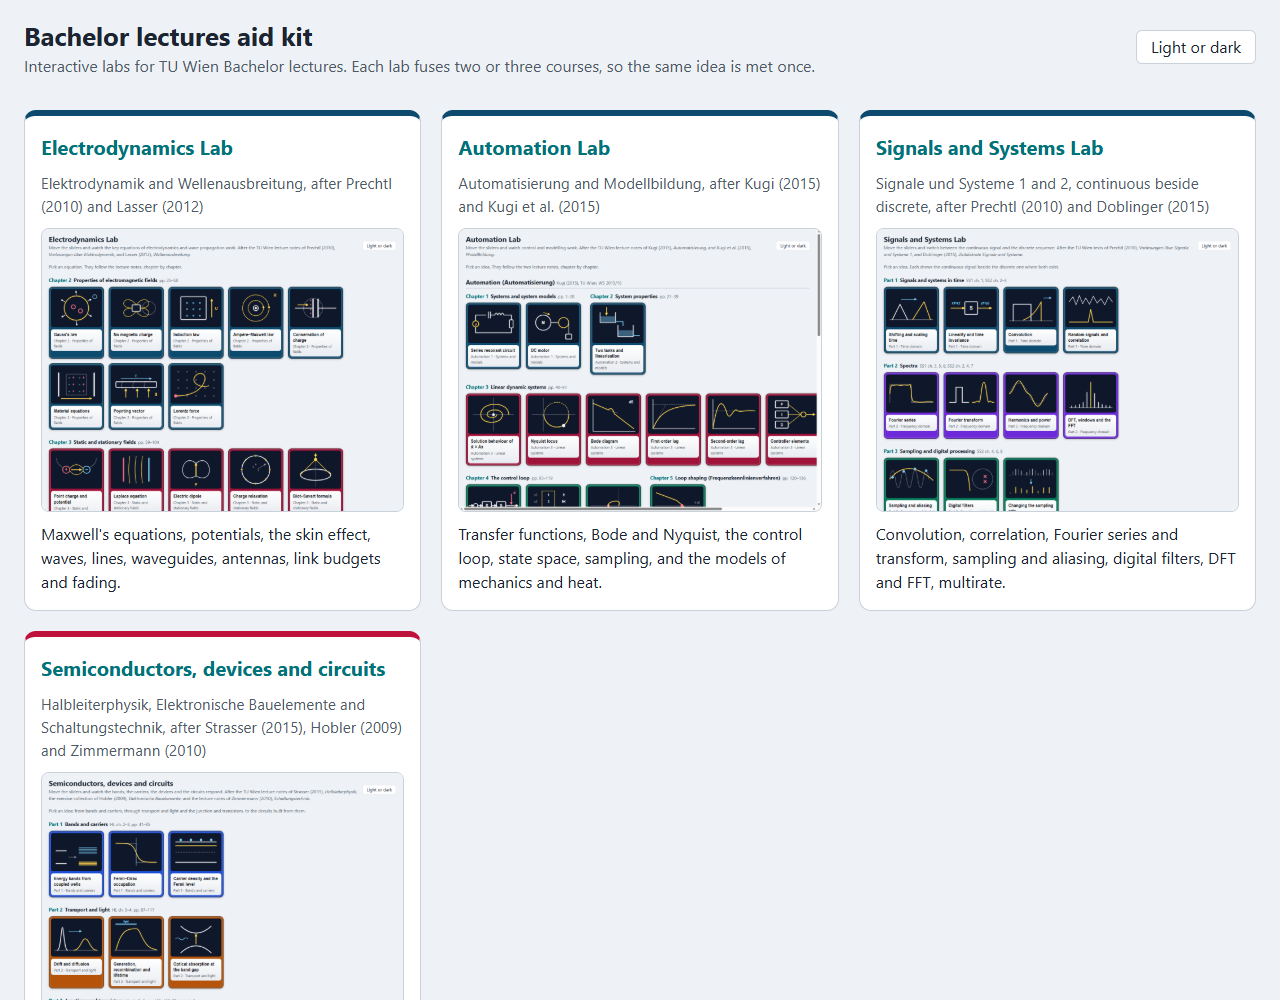
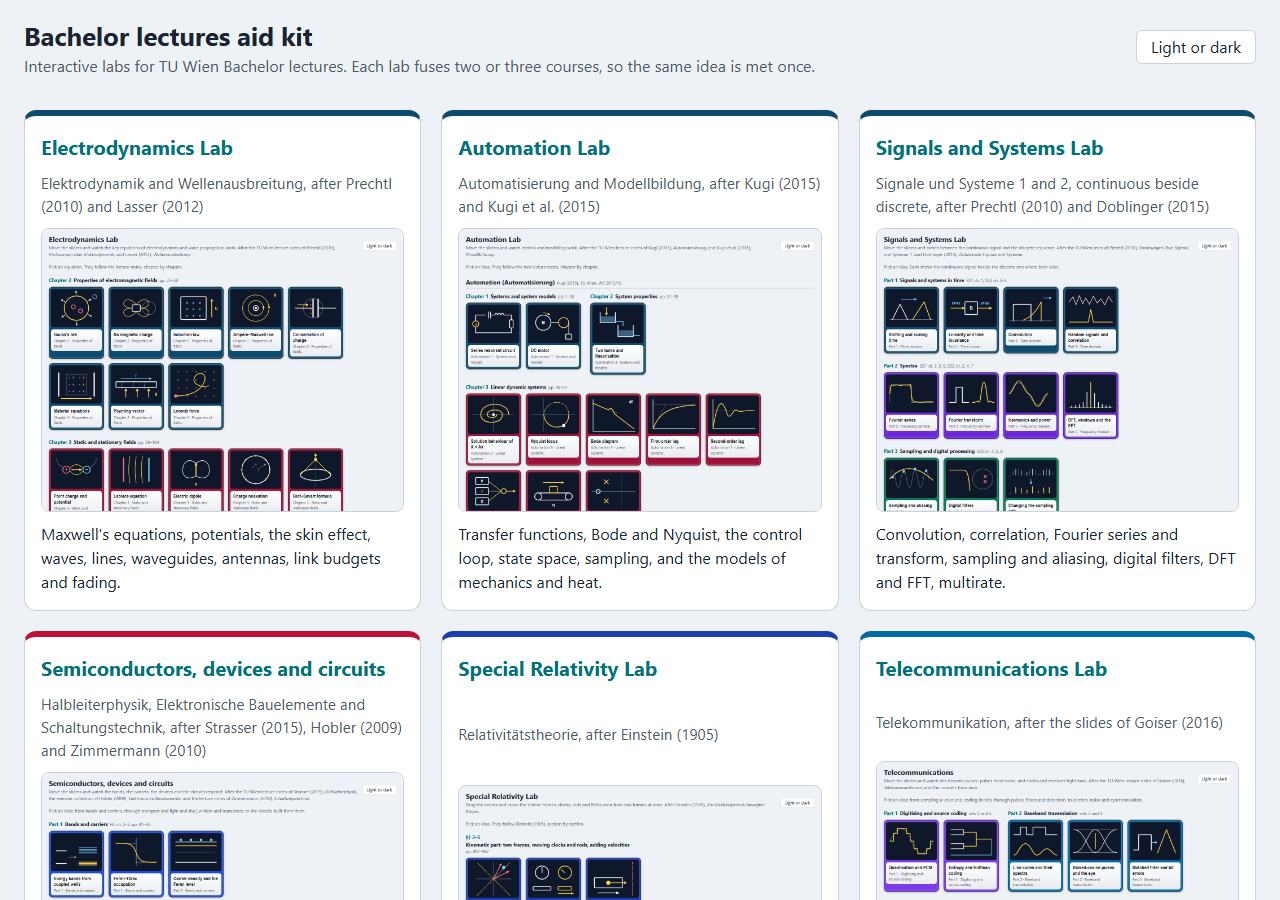
Retake the screenshots with typeset equations; say what each practice answer expects
Every lab's light and dark stills and the start page's are retaken from the current site. The practice field's
placeholder named a resistor value ("e.g. 4k7 or 0.02") in every lab; it now names the answer's unit.

diff --git a/kit/ui/kit.js b/kit/ui/kit.js
@@ -71,9 +71,13 @@ export function choice(label, options, value, onChange) {
 
 /** A practice question from the course's exercise sheet: the student types an answer with its prefix ("22.5 m"),
  *  and it is right within the tolerance. The worked solution opens on request. */
+/** The placeholder of a practice answer: "Number in Hz", or "A number" when the answer has no unit ("" or "1"). */
+export const answerHint = unit => unit && unit !== "1" ? `Number in ${unit}` : "A number";
+
 export function practice({ question, source, answer, unit, tolerance = 0.02, solution, parse }) {
   const id = `q${++uid}`;
-  const input = h("input", { id, type: "text", inputmode: "decimal", autocomplete: "off", placeholder: `e.g. 4k7 or 0.02` });
+  // The hint names what this question expects; a sample value would mislead, since every question has its own scale.
+  const input = h("input", { id, type: "text", inputmode: "decimal", autocomplete: "off", placeholder: answerHint(unit) });
   const verdict = h("p", { class: "verdict", role: "status" });
   const check = e => {
     e.preventDefault();

diff --git a/kit/tests/kit.test.js b/kit/tests/kit.test.js
@@ -1,0 +1,13 @@
+// The practice field's placeholder says what the question expects, by definition of its unit; no sample value, which
+// would suggest a scale the answer may not have.
+import { test } from "node:test";
+import assert from "node:assert/strict";
+import { answerHint } from "../ui/kit.js";
+
+test("the answer hint names the unit, or asks for a plain number", () => {
+  assert.equal(answerHint("Hz"), "Number in Hz");
+  assert.equal(answerHint("V"), "Number in V");
+  assert.equal(answerHint(""), "A number");
+  assert.equal(answerHint("1"), "A number");
+  assert.equal(answerHint(undefined), "A number");
+});

diff --git a/README.md b/README.md
@@ -12,7 +12,7 @@ The main task in every lab, recorded from the Electrodynamics Lab: move a contro
 
 | Light | Dark |
 |---|---|
-| <img src="docs/light.png" alt="The start page in the light theme: four lab panels, Electrodynamics, Automation, Signals and systems, and Semiconductors, devices and circuits, each with its courses and a screenshot" width="420"> | <img src="docs/dark.png" alt="The start page in the dark theme: the same four lab panels" width="420"> |
+| <img src="docs/light.png" alt="The start page in the light theme: eight lab panels, from Electrodynamics to Measurement, each with its courses and a screenshot" width="420"> | <img src="docs/dark.png" alt="The start page in the dark theme: the same eight lab panels" width="420"> |
 
 ## The labs
 
